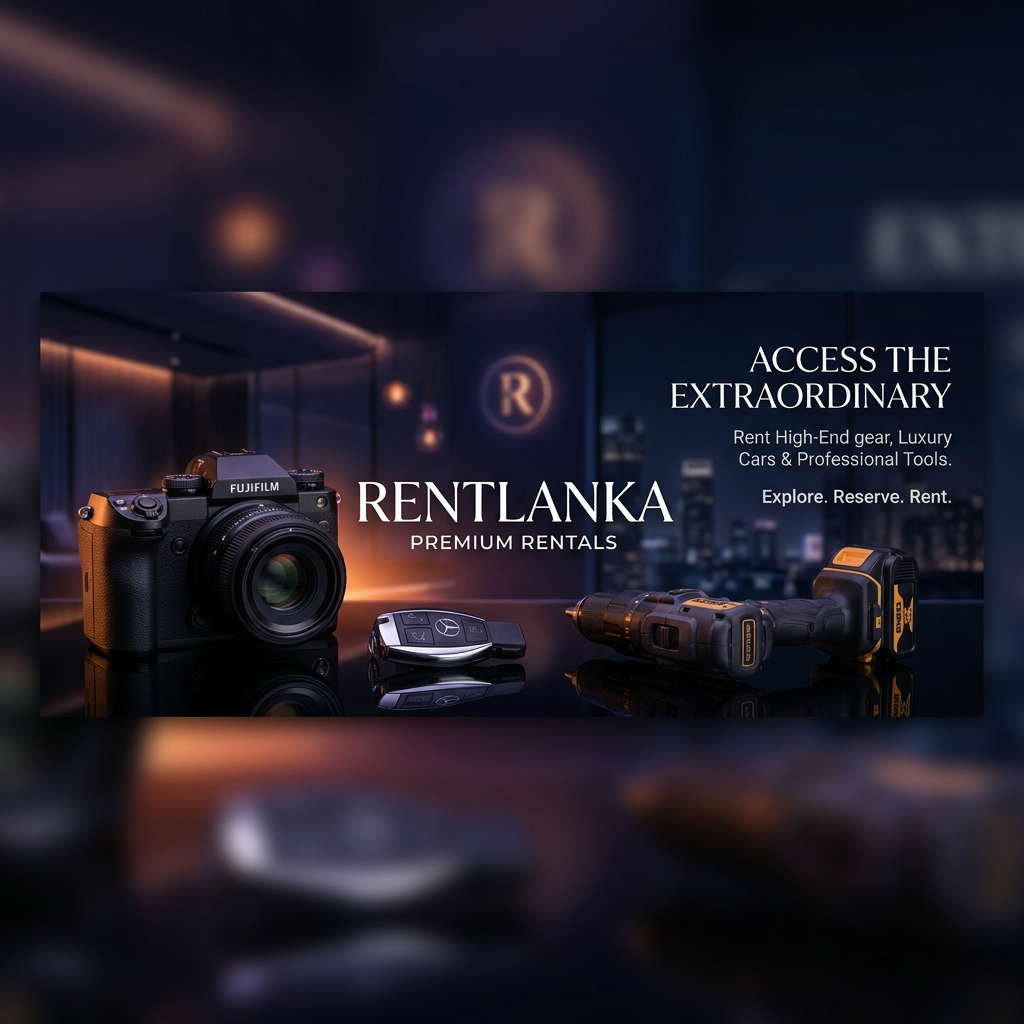
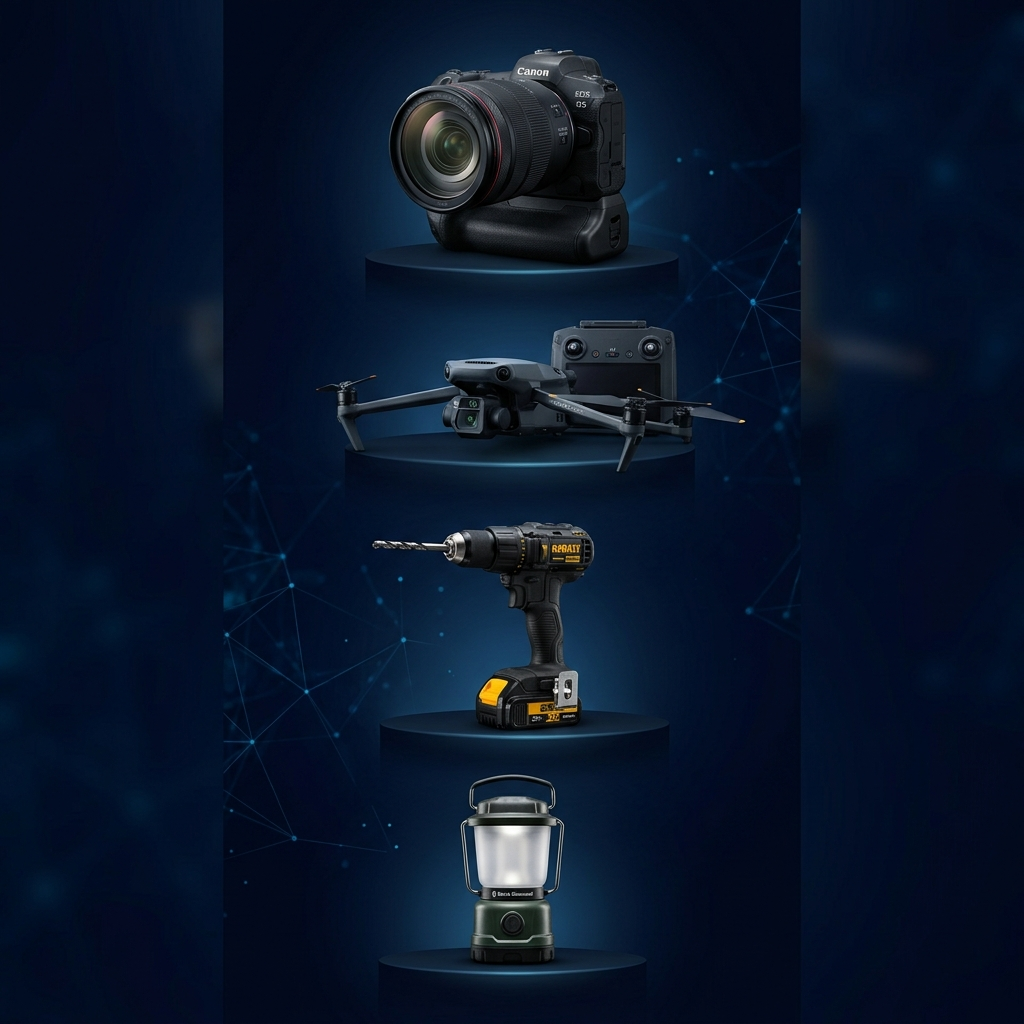
update admin dashboard layout with background imagery and refine UI component aesthetics

diff --git a/web/src/app/admin/layout.tsx b/web/src/app/admin/layout.tsx
@@ -65,7 +65,17 @@ export default function AdminLayout({
   )?.label || "Dashboard";
 
   return (
-    <div className="flex h-screen overflow-hidden bg-slate-950 text-slate-100 relative">
+    <div 
+      className="flex h-screen overflow-hidden bg-slate-950 text-slate-100 relative"
+      style={{
+        backgroundImage: "url('/images/image.png')",
+        backgroundSize: "cover",
+        backgroundPosition: "bottom left",
+        backgroundRepeat: "no-repeat"
+      }}
+    >
+      {/* Dark overlay for optimal readability, preventing text contrast issues */}
+      <div className="absolute inset-0 bg-slate-950/75 pointer-events-none z-0" />
       
       {/* Mobile Drawer Overlay Back Drop */}
       {sidebarOpen && (
@@ -77,12 +87,12 @@ export default function AdminLayout({
 
       {/* Sidebar - Collapsible sliding drawer on mobile, static on desktop */}
       <aside
-        className={`fixed inset-y-0 left-0 z-50 w-64 flex-shrink-0 border-r border-slate-800 bg-slate-900 flex flex-col justify-between transition-transform duration-300 transform lg:translate-x-0 lg:relative ${
+        className={`fixed inset-y-0 left-0 z-50 w-64 flex-shrink-0 border-r border-slate-800/60 bg-slate-950/40 backdrop-blur-md flex flex-col justify-between transition-transform duration-300 transform lg:translate-x-0 lg:relative z-10 ${
           sidebarOpen ? "translate-x-0" : "-translate-x-full"
         }`}
       >
         <div>
-          <div className="h-16 flex items-center justify-between px-6 border-b border-slate-800">
+          <div className="h-16 flex items-center justify-between px-6 border-b border-slate-800/60">
             <span className="text-xl font-bold text-indigo-400">
               RentLanka Admin
             </span>
@@ -118,7 +128,7 @@ export default function AdminLayout({
         </div>
 
         {/* Sidebar Profile Footer */}
-        <div className="p-4 border-t border-slate-800 bg-slate-900/40">
+        <div className="p-4 border-t border-slate-800/60 bg-slate-950/30">
           <div className="flex items-center gap-3 mb-3">
             <div className="w-9 h-9 rounded-xl bg-indigo-500/10 border border-indigo-500/20 flex items-center justify-center text-indigo-400 font-bold flex-shrink-0">
               {adminName[0]}
@@ -130,7 +140,7 @@ export default function AdminLayout({
           </div>
           <button
             onClick={handleLogout}
-            className="w-full py-2.5 px-4 rounded-xl border border-slate-800 hover:border-slate-700 bg-slate-900 text-sm font-semibold text-slate-300 hover:text-slate-100 transition duration-200 flex items-center justify-center gap-2 cursor-pointer group"
+            className="w-full py-2.5 px-4 rounded-xl border border-slate-800/60 hover:border-slate-700/60 bg-slate-900/20 backdrop-blur-sm text-sm font-semibold text-slate-300 hover:text-slate-100 hover:bg-slate-900/40 transition duration-200 flex items-center justify-center gap-2 cursor-pointer group"
           >
             <svg className="w-4 h-4 text-slate-400 group-hover:text-slate-200 transition-colors" fill="none" stroke="currentColor" strokeWidth="2.5" viewBox="0 0 24 24">
               <path strokeLinecap="round" strokeLinejoin="round" d="M17 16l4-4m0 0l-4-4m4 4H7m6 4v1a3 3 0 01-3 3H6a3 3 0 01-3-3V7a3 3 0 013-3h4a3 3 0 013 3v1" />
@@ -141,15 +151,15 @@ export default function AdminLayout({
       </aside>
 
       {/* Main Content Area */}
-      <div className="flex-1 flex flex-col overflow-hidden">
+      <div className="flex-1 flex flex-col overflow-hidden relative z-10">
         
         {/* Responsive Header */}
-        <header className="h-16 border-b border-slate-800 bg-slate-900/20 backdrop-blur-md flex items-center justify-between px-4 sm:px-8">
+        <header className="h-16 border-b border-slate-800/60 bg-slate-950/20 backdrop-blur-md flex items-center justify-between px-4 sm:px-8">
           <div className="flex items-center gap-4">
             {/* Hamburger Toggle Trigger (Visible on Mobile only) */}
             <button
               onClick={() => setSidebarOpen(true)}
-              className="lg:hidden p-2 rounded-lg border border-slate-800 bg-slate-900 text-slate-400 hover:text-slate-200"
+              className="lg:hidden p-2 rounded-lg border border-slate-800/60 bg-slate-950/20 text-slate-400 hover:text-slate-200"
             >
               <svg className="w-5 h-5" fill="none" stroke="currentColor" strokeWidth="2" viewBox="0 0 24 24">
                 <path strokeLinecap="round" strokeLinejoin="round" d="M4 6h16M4 12h16M4 18h16" />

diff --git a/web/src/app/admin/page.tsx b/web/src/app/admin/page.tsx
@@ -164,7 +164,7 @@ export default function AdminDashboardOverview() {
         {kpis.map((kpi, idx) => (
           <div
             key={idx}
-            className="rounded-xl border border-slate-800 bg-slate-900/40 p-6 shadow-sm hover:border-slate-700/60 transition-all duration-200 flex flex-col justify-between"
+            className="rounded-xl border border-slate-800/60 bg-slate-950/30 backdrop-blur-md p-6 shadow-lg hover:border-slate-700/80 hover:bg-slate-900/40 transition-all duration-300 flex flex-col justify-between"
           >
             <div>
               <span className="text-xs font-semibold tracking-wider text-slate-500 uppercase">{kpi.label}</span>
@@ -194,7 +194,7 @@ export default function AdminDashboardOverview() {
       <div className="grid gap-6 lg:grid-cols-3">
         
         {/* Growth Trend Area Chart */}
-        <div className="lg:col-span-2 rounded-xl border border-slate-800 bg-slate-900/40 p-6 flex flex-col justify-between relative overflow-hidden">
+        <div className="lg:col-span-2 rounded-xl border border-slate-800/60 bg-slate-950/30 backdrop-blur-md p-6 flex flex-col justify-between relative overflow-hidden shadow-lg hover:border-slate-700/80 hover:bg-slate-900/40 transition-all duration-300">
           <div className="flex flex-col sm:flex-row sm:items-center sm:justify-between gap-4">
             <div>
               <h3 className="text-base font-bold text-slate-200">Platform Activity Trends</h3>
@@ -318,7 +318,7 @@ export default function AdminDashboardOverview() {
         </div>
 
         {/* Category Share Donut Chart */}
-        <div className="rounded-xl border border-slate-800 bg-slate-900/40 p-6 flex flex-col justify-between">
+        <div className="rounded-xl border border-slate-800/60 bg-slate-950/30 backdrop-blur-md p-6 flex flex-col justify-between shadow-lg hover:border-slate-700/80 hover:bg-slate-900/40 transition-all duration-300">
           <div>
             <h3 className="text-base font-bold text-slate-200">Category Share</h3>
             <p className="text-slate-500 text-xs mt-0.5">Gear listed by gear category</p>
@@ -358,7 +358,7 @@ export default function AdminDashboardOverview() {
       <div className="grid gap-6 lg:grid-cols-3">
 
         {/* User Verification Trust Level Donut Chart */}
-        <div className="rounded-xl border border-slate-800 bg-slate-900/40 p-6 flex flex-col justify-between">
+        <div className="rounded-xl border border-slate-800/60 bg-slate-950/30 backdrop-blur-md p-6 flex flex-col justify-between shadow-lg hover:border-slate-700/80 hover:bg-slate-900/40 transition-all duration-300">
           <div>
             <h3 className="text-base font-bold text-slate-200">Trust & Identity</h3>
             <p className="text-slate-500 text-xs mt-0.5">Verification status of registered accounts</p>
@@ -401,7 +401,7 @@ export default function AdminDashboardOverview() {
         </div>
 
         {/* Platform Escrow Fund Bar Stack Chart */}
-        <div className="rounded-xl border border-slate-800 bg-slate-900/40 p-6 flex flex-col justify-between">
+        <div className="rounded-xl border border-slate-800/60 bg-slate-950/30 backdrop-blur-md p-6 flex flex-col justify-between shadow-lg hover:border-slate-700/80 hover:bg-slate-900/40 transition-all duration-300">
           <div>
             <h3 className="text-base font-bold text-slate-200">Escrow Ledger</h3>
             <p className="text-slate-500 text-xs mt-0.5">Ratio and distribution of transacted funds</p>
@@ -441,7 +441,7 @@ export default function AdminDashboardOverview() {
         </div>
 
         {/* Live Admin Audit Log */}
-        <div className="rounded-xl border border-slate-800 bg-slate-900/40 p-6 flex flex-col justify-between">
+        <div className="rounded-xl border border-slate-800/60 bg-slate-950/30 backdrop-blur-md p-6 flex flex-col justify-between shadow-lg hover:border-slate-700/80 hover:bg-slate-900/40 transition-all duration-300">
           <div>
             <h3 className="text-base font-bold text-slate-200">System Logs</h3>
             <p className="text-slate-500 text-xs mt-0.5">Real-time platform administrative events</p>

diff --git a/web/src/app/login/page.tsx b/web/src/app/login/page.tsx
@@ -2,7 +2,6 @@
 
 import { useState } from "react";
 import { useRouter } from "next/navigation";
-import Link from "next/link";
 import Image from "next/image";
 import { Button } from "@/components/ui/Button";
 import { Input } from "@/components/ui/Input";
@@ -88,19 +87,11 @@ export default function LoginPage() {
             <Button
               type="submit"
               disabled={loading}
-              className="w-full py-3 bg-indigo-600 hover:bg-indigo-500 text-white font-semibold rounded-xl shadow-lg shadow-indigo-500/20 active:translate-y-0.5 transition duration-150 cursor-pointer"
+              className="w-full py-3 shadow-lg shadow-indigo-500/20 active:translate-y-0.5 transition duration-150 cursor-pointer"
             >
               {loading ? "Signing in..." : "Sign in"}
             </Button>
           </form>
-
-          {/* Link back */}
-          <p className="text-center text-xs text-slate-500 mt-6">
-            Don&apos;t have an account?{" "}
-            <Link href="/register" className="font-semibold text-indigo-400 hover:underline">
-              Sign up
-            </Link>
-          </p>
         </div>
       </div>
     </div>

diff --git a/web/src/components/ui/Button.tsx b/web/src/components/ui/Button.tsx
@@ -15,8 +15,8 @@ export function Button({
   const base =
     "inline-flex items-center justify-center rounded-xl px-5 py-2.5 text-sm font-semibold transition-colors disabled:opacity-50";
   const variants = {
-    primary: "bg-accent text-white hover:bg-orange-600",
-    secondary: "bg-primary text-white hover:bg-primary-dark",
+    primary: "bg-primary text-white hover:bg-primary-dark shadow-sm",
+    secondary: "bg-card-secondary text-foreground border border-border/80 hover:bg-border/30",
     ghost: "border border-border hover:bg-card",
   };
   const classes = `${base} ${variants[variant]} ${className}`;